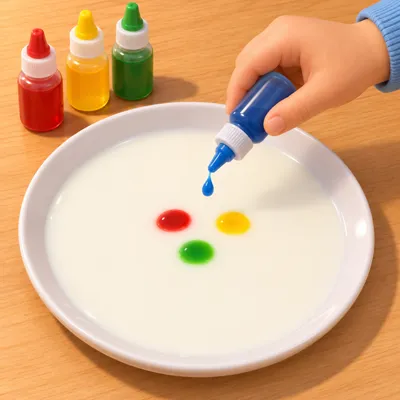
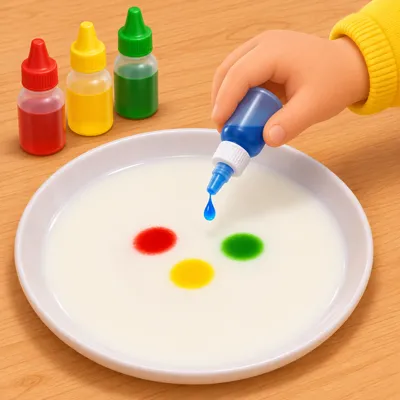
Labo : une image par étape pour les 12 expériences

diff --git a/images/liste.js b/images/liste.js
@@ -306,10 +306,53 @@ self.IMAGES = [
  "images/dinos/trex.webp",
  "images/dinos/triceratops.webp",
  "images/dinos/velociraptor.webp",
+ "images/experiences/arc-en-ciel-1.webp",
+ "images/experiences/arc-en-ciel-2.webp",
+ "images/experiences/arc-en-ciel-3.webp",
+ "images/experiences/arc-en-ciel-4.webp",
+ "images/experiences/ballon-gonfle-1.webp",
+ "images/experiences/ballon-gonfle-2.webp",
+ "images/experiences/ballon-gonfle-3.webp",
+ "images/experiences/ballon-gonfle-4.webp",
+ "images/experiences/ballon-magique-1.webp",
+ "images/experiences/ballon-magique-2.webp",
+ "images/experiences/ballon-magique-3.webp",
+ "images/experiences/bonbons-1.webp",
+ "images/experiences/bonbons-2.webp",
+ "images/experiences/bonbons-3.webp",
+ "images/experiences/celeri-1.webp",
+ "images/experiences/celeri-2.webp",
+ "images/experiences/celeri-3.webp",
+ "images/experiences/celeri-4.webp",
+ "images/experiences/coquille-1.webp",
+ "images/experiences/coquille-2.webp",
+ "images/experiences/coquille-3.webp",
+ "images/experiences/coquille-4.webp",
+ "images/experiences/eau-voyage-1.webp",
+ "images/experiences/eau-voyage-2.webp",
+ "images/experiences/eau-voyage-3.webp",
+ "images/experiences/eau-voyage-4.webp",
+ "images/experiences/eau-voyage-5.webp",
+ "images/experiences/haricot-1.webp",
+ "images/experiences/haricot-2.webp",
+ "images/experiences/haricot-3.webp",
+ "images/experiences/haricot-4.webp",
  "images/experiences/lait-1.webp",
  "images/experiences/lait-2.webp",
  "images/experiences/lait-3.webp",
  "images/experiences/lait-4.webp",
+ "images/experiences/oeuf-1.webp",
+ "images/experiences/oeuf-2.webp",
+ "images/experiences/oeuf-3.webp",
+ "images/experiences/oeuf-4.webp",
+ "images/experiences/poivre-1.webp",
+ "images/experiences/poivre-2.webp",
+ "images/experiences/poivre-3.webp",
+ "images/experiences/poivre-4.webp",
+ "images/experiences/volcan-1.webp",
+ "images/experiences/volcan-2.webp",
+ "images/experiences/volcan-3.webp",
+ "images/experiences/volcan-4.webp",
  "images/ile/aeroport.webp",
  "images/ile/archipel.webp",
  "images/ile/bateau.webp",

diff --git a/sw.js b/sw.js
@@ -1,5 +1,5 @@
 // Garde l'app en cache pour qu'elle marche hors ligne. Changer VERSION à chaque mise en ligne.
-const VERSION = 'ile-56';
+const VERSION = 'ile-57';
 importScripts('images/liste.js'); // self.IMAGES : les images du nouveau style déjà prêtes
 const FICHIERS = [...self.IMAGES, 'images/liste.js',
   './', 'index.html', 'style.css', 'manifest.json', 'icons/icone-192.png', 'icons/icone-512.png',

diff --git a/RESUME-SESSION.md b/RESUME-SESSION.md
@@ -4,7 +4,7 @@
 
 ## Où on en est
 - Branche de travail : `jardin-route-voix`. Elle est fusionnée dans `main` à chaque « oui, commite et envoie ».
-- Version du cache (`sw.js`) : `ile-56`. Il faut la monter à chaque envoi.
+- Version du cache (`sw.js`) : `ile-57`. Il faut la monter à chaque envoi.
 - 153 tests, tous verts (`npm test`).
 - L'app en ligne : https://alielrab.github.io/ile-aux-defis/ (GitHub Pages, branche `main`).
 
@@ -54,10 +54,9 @@
 - Nouvelle carte de l'île des créateurs à 6 places, tour de l'horloge recentrée.
 - **Hôpital en images** : 8 pages du corps (`images/corps/`, 640x1024, jamais rognées), plus 3 vues de dos (cerveau, squelette, muscles) avec un bouton « 🔄 Voir de dos ». Les places des organes sont dans `SUR_IMAGE` (`js/jeux/atlas.js`) ; un troisième élément `'dos'` met l'organe sur la vue de dos. Le cervelet et la moelle sont de dos ; l'intestin a été redessiné dans le ventre.
 - **Labo des expériences** (`js/jeux/experiences.js`) : 12 expériences à faire pour de vrai (matériel, étapes, « devine d'abord », explication, 2 ⭐ la première fois). Sources : Alloprof et Les Savants Fous.
-- **Labo, tuto en images** : une image par étape (`images/experiences/<cle>-<n>.webp`, 400x400, affichée toute seule si elle existe). En bas de chaque fiche, « Tu l'as faite pour de vrai ? » : un parent tape son code, +10 ⭐ une seule fois (`validerVraie`, `profil.vraies`). **Pas de vidéo** : deux essais Higgsfield (56 crédits chacun) ne montraient pas le bon résultat, on a abandonné.
+- **Labo, tuto en images** : une image par étape (`images/experiences/<cle>-<n>.webp`, 400x400, les 47 sont faites ; Higgsfield : `aspect_ratio: 1:1`, main à manche jaune, jamais le résultat sur l'image). En bas de chaque fiche, « Tu l'as faite pour de vrai ? » : un parent tape son code, +10 ⭐ une seule fois (`validerVraie`, `profil.vraies`). **Pas de vidéo** : deux essais Higgsfield (56 crédits chacun) ne montraient pas le bon résultat, on a abandonné.
 
 ## Pas encore fait
-- Images des étapes des 11 autres expériences (seul le lait magique est fait). Higgsfield rend des images carrées même si on demande 1024x640.
 - Tangram ; minuscules dans l'atelier d'écriture ; flèche « répéter » des robots ; carte des cantons à toucher ; langue de famille.
 - Île de la mer, île du cœur « Grandir ensemble », voix pré-enregistrées (`voix/phrases.csv`). Voir `IDEES.md`.
 
